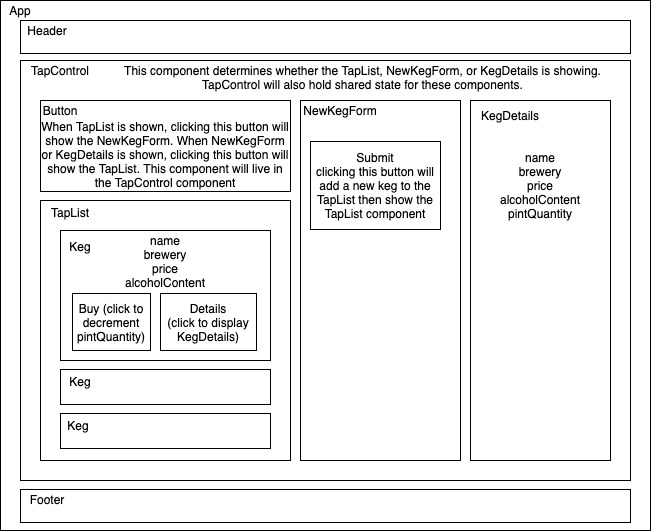
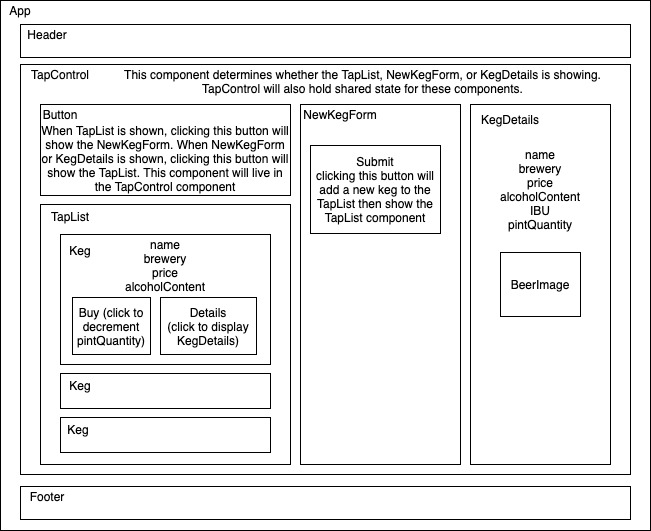
add beer image component to component tree

diff --git a/README.md b/README.md
@@ -1,4 +1,4 @@
-# _React Taproom_
+# React Taproom
 
 #### React Fundamentals Independent Project for Epicodus, April 24, 2020
 
@@ -8,7 +8,7 @@
 
 _This application, built using Create React App, is a taproom where a bar can track their beer inventory._
 
-## Specification user stories:
+### Specification user stories:
 
 * A user is able to see a list/menu of all available kegs. For each keg, the user is able to see its name, brewery, price, and alcohol content (ABV).
 * A user is able to submit a form to add a new keg to the list.
@@ -19,7 +19,7 @@ _This application, built using Create React App, is a taproom where a bar can tr
 * A keg is unable to be poured from (pint count decremented) when the keg is empty. Instead, a user is able to see a note that the keg is empty.
 * A user is able to delete a keg when it is empty (0 pints remaining).
 
-## Component Tree
+### Component Tree
 ![component tree](/ComponentTree.jpg)
 
 ## Setup/Installation Requirements
